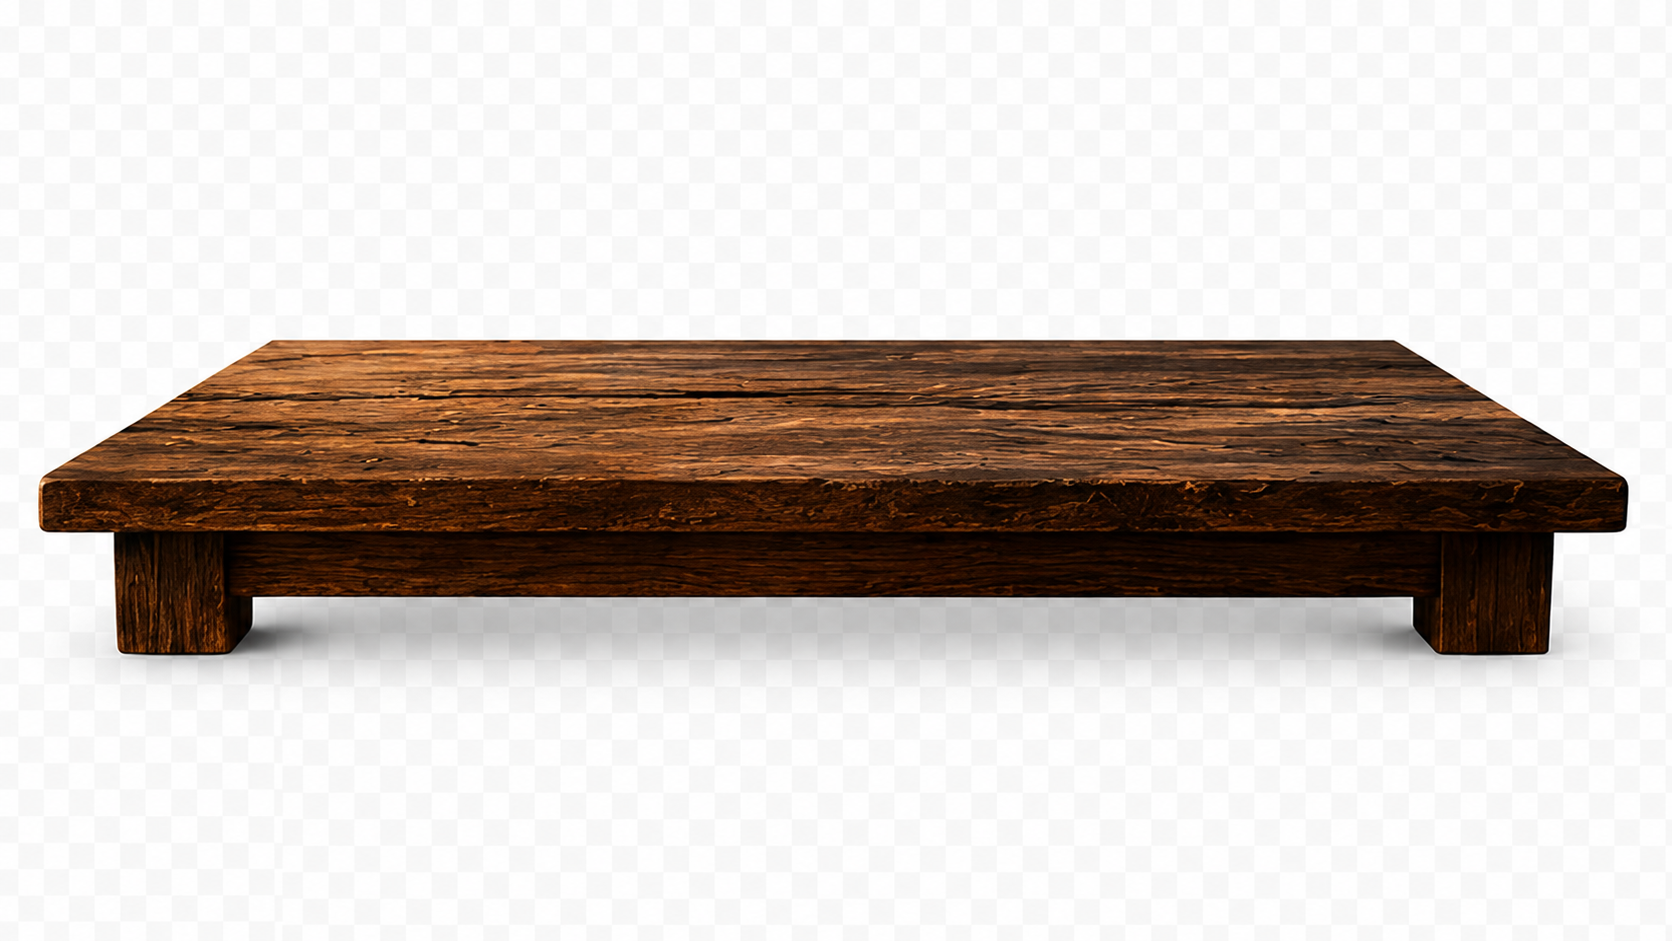
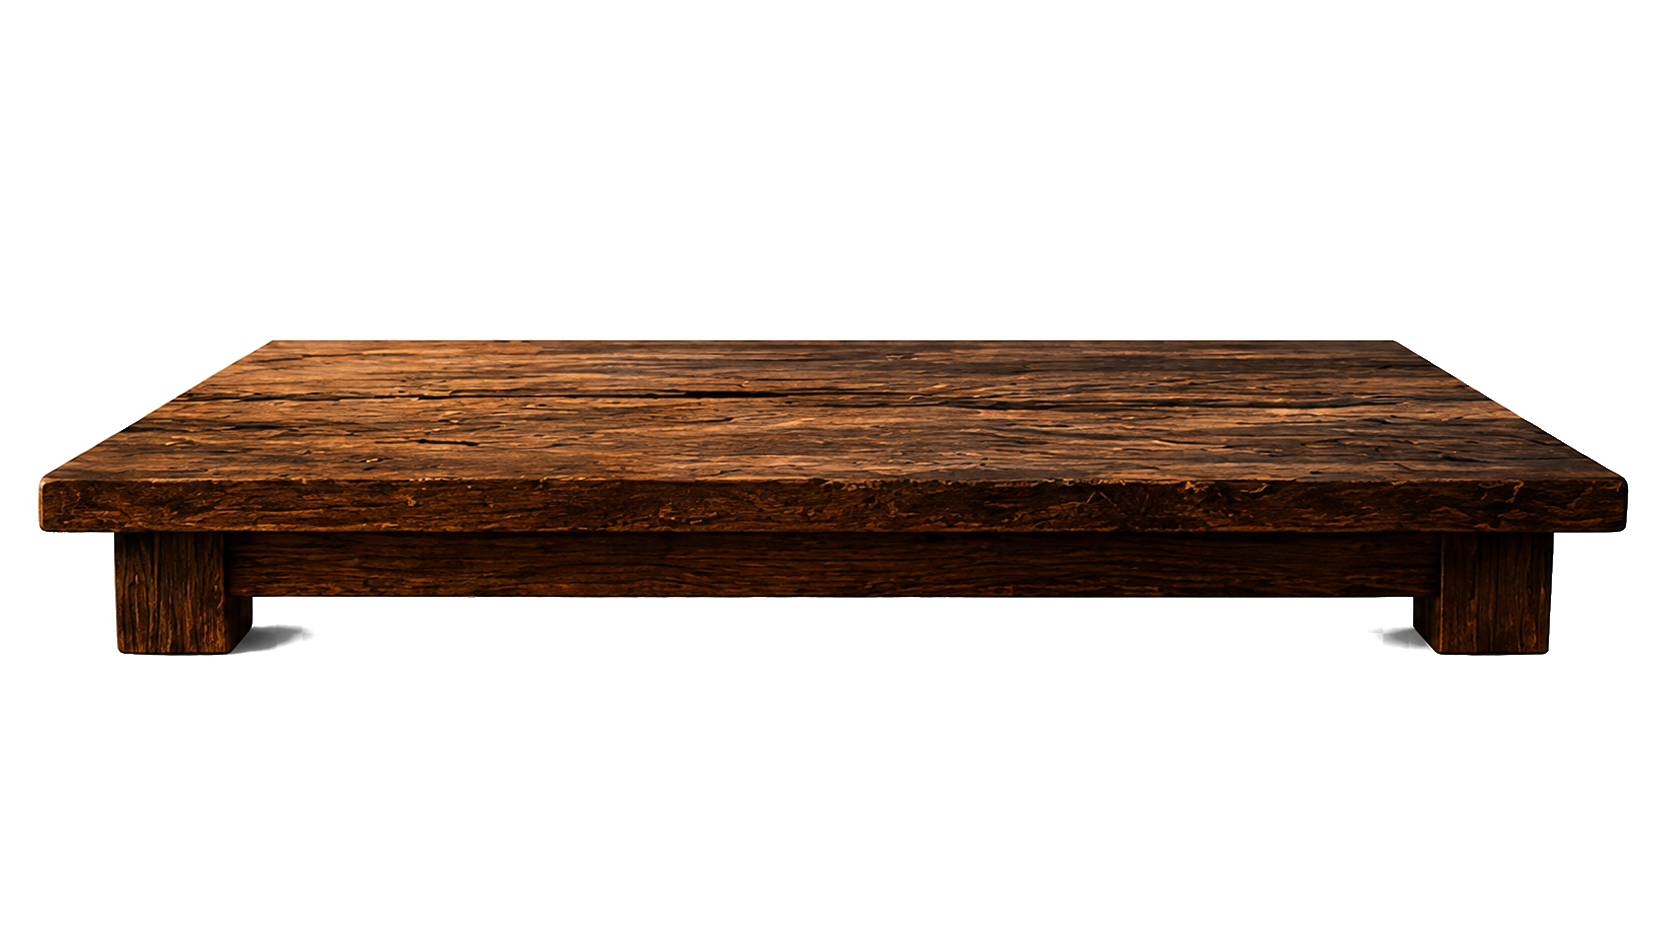
just do it

Changed region(s): [[0.0622, 0.6164, 0.9641, 0.7396]]

diff --git a/components/cinematic/cinematicData.ts b/components/cinematic/cinematicData.ts
@@ -29,7 +29,7 @@ export const wineScene: CinematicSceneDef = {
     {
       layerId: "background",
       src: WINE_ASSETS.background,
-      alt: "Cordillera de los Andes nevada en la hora dorada sobre Mendoza",
+      alt: "Cordillera de los Andes nevada y viñedo de Mendoza en la hora dorada",
       zIndex: 0,
       kind: "background",
       className: "inset-0",
@@ -37,137 +37,142 @@ export const wineScene: CinematicSceneDef = {
       placeholder: {
         style: {
           background:
-            "linear-gradient(180deg, #f6c77a 0%, #e7a35a 26%, #b9805a 46%, #6f5a55 64%, #3a3b41 100%)",
+            "linear-gradient(180deg, #d9ab68 0%, #bd8851 24%, #98704f 44%, #5c5350 62%, #2c2e34 100%)",
         },
       },
     },
     {
       layerId: "warm-glow",
+      // Luz ambiente cálida detrás de la botella. Sutil, sin halo marcado.
       src: WINE_ASSETS.warmGlow,
       alt: "",
-      zIndex: 5,
+      zIndex: 2,
       kind: "effect",
       decorative: true,
+      imageClassName: "opacity-50 mix-blend-screen",
       className:
-        "left-1/2 bottom-[12%] h-[52vh] w-[70vw] -translate-x-1/2 md:left-[34%] md:w-[44vw]",
+        "left-[45%] bottom-[30%] h-[40vh] w-[80vw] -translate-x-1/2 md:h-[50vh] md:w-[46vw]",
       placeholder: {
         style: {
           background:
-            "radial-gradient(50% 50% at 50% 50%, rgba(255,201,120,0.32) 0%, rgba(255,201,120,0) 65%)",
+            "radial-gradient(60% 60% at 50% 50%, rgba(255,200,130,0.12) 0%, rgba(255,200,130,0) 70%)",
           mixBlendMode: "screen",
         },
       },
     },
     {
       layerId: "table",
+      // Mesa dominante a todo el ancho; las patas se salen por abajo.
       src: WINE_ASSETS.table,
       alt: "Mesa premium de nogal oscuro",
       zIndex: 10,
       kind: "foreground",
-      className: "inset-x-0 bottom-0 h-[38%] md:h-[42%]",
+      className: "inset-x-0 bottom-[-8%] h-[80vw] md:bottom-[-16%] md:h-[58vw]",
       placeholder: {
         style: {
           background:
-            "linear-gradient(180deg, #2a1a12 0%, #1c120c 60%, #120b07 100%)",
+            "linear-gradient(180deg, #3a2418 0%, #271810 42%, #160d08 100%)",
         },
       },
     },
     {
       layerId: "contact-shadow",
+      // Sombra de contacto bajo botella/copa para anclarlas a la mesa.
       src: WINE_ASSETS.contactShadow,
       alt: "",
-      zIndex: 15,
+      zIndex: 14,
       kind: "effect",
       decorative: true,
-      className: "inset-x-[12%] bottom-[33%] h-[9%] md:inset-x-[20%]",
+      imageClassName: "opacity-60 mix-blend-multiply",
+      className:
+        "left-[45%] bottom-[24%] h-[8vh] w-[70vw] -translate-x-1/2 md:w-[42vw] md:h-[9vh]",
       placeholder: {
         style: {
           background:
-            "radial-gradient(60% 100% at 50% 100%, rgba(0,0,0,0.45) 0%, rgba(0,0,0,0) 70%)",
+            "radial-gradient(60% 100% at 50% 100%, rgba(0,0,0,0.5) 0%, rgba(0,0,0,0) 70%)",
         },
       },
     },
     {
       layerId: "cheese-board",
+      // Tabla de quesos a la izquierda, sobre la superficie.
       src: WINE_ASSETS.cheeseBoard,
       alt: "Tabla de quesos regionales",
-      zIndex: 20,
+      zIndex: 18,
       kind: "object",
-      className: "hidden md:block left-[8%] bottom-[15%] h-[15vh] w-[16vw]",
+      className:
+        "hidden md:block left-[20%] bottom-[22%] h-[34vh] w-[34vw] -translate-x-1/2",
       placeholder: { label: "Tabla de quesos" },
     },
     {
       layerId: "grapes",
+      // Uvas conectando la tabla de quesos con la base de la botella.
       src: WINE_ASSETS.grapes,
       alt: "Racimo de uvas",
-      zIndex: 21,
+      zIndex: 19,
       kind: "object",
-      className: "hidden md:block left-[21%] bottom-[13%] h-[10vh] w-[9vw]",
+      className:
+        "hidden md:block left-[31%] bottom-[22%] h-[22vh] w-[20vw] -translate-x-1/2",
       placeholder: { label: "Uvas" },
     },
     {
       layerId: "dish-b",
+      // Segundo plato detrás del plato A (asset pendiente → invisible).
       src: WINE_ASSETS.dishB,
       alt: "Plato gastronómico",
-      zIndex: 22,
+      zIndex: 20,
       kind: "object",
-      className: "hidden lg:block right-[22%] bottom-[12%] h-[11vh] w-[13vw]",
+      className:
+        "hidden lg:block left-[68%] bottom-[24%] h-[22vh] w-[22vw] -translate-x-1/2",
       placeholder: { label: "Plato B" },
     },
     {
       layerId: "dish-a",
+      // Plato gourmet principal a la derecha, sobre la superficie.
       src: WINE_ASSETS.dishA,
       alt: "Plato gastronómico",
-      zIndex: 23,
+      zIndex: 22,
       kind: "object",
-      className: "hidden md:block right-[8%] bottom-[15%] h-[13vh] w-[15vw]",
+      className:
+        "hidden md:block left-[80%] bottom-[22%] h-[32vh] w-[32vw] -translate-x-1/2",
       placeholder: { label: "Plato A" },
     },
     {
       layerId: "napkin-knife",
+      // Servilleta + cuchillo en primer plano, delante del plato.
       src: WINE_ASSETS.napkinKnife,
       alt: "Servilleta y cuchillo",
-      zIndex: 24,
+      zIndex: 26,
       kind: "object",
-      className: "hidden lg:block right-[33%] bottom-[11%] h-[8vh] w-[11vw]",
+      className:
+        "hidden md:block left-[70%] bottom-[14%] h-[22vh] w-[30vw] -translate-x-1/2",
       placeholder: { label: "Servilleta + cuchillo" },
     },
     {
+      layerId: "glass",
+      // Copa emparejada con la botella, ligeramente a su derecha.
+      src: WINE_ASSETS.glass,
+      alt: "Copa de vino tinto",
+      zIndex: 28,
+      kind: "object",
+      className:
+        "hidden md:block left-[60%] bottom-[25%] h-[42vh] w-[17vw] -translate-x-1/2",
+      placeholder: { label: "Copa de vino" },
+    },
+    {
       layerId: "bottle",
+      // Punto focal principal: botella Edmar, apoyada sobre la mesa.
       src: WINE_ASSETS.bottle,
       alt: "Botella de vino Edmar",
       zIndex: 30,
       kind: "object",
       className:
-        "left-1/2 bottom-[19%] h-[36vh] w-[52vw] -translate-x-1/2 md:left-[34%] md:bottom-[17%] md:h-[44vh] md:w-[18vw]",
+        "left-1/2 bottom-[24%] h-[42vh] w-[70vw] -translate-x-1/2 md:left-[43%] md:bottom-[26%] md:h-[60vh] md:w-[28vw]",
       placeholder: { label: "Botella Edmar" },
     },
-    {
-      layerId: "glass",
-      src: WINE_ASSETS.glass,
-      alt: "Copa de vino tinto",
-      zIndex: 31,
-      kind: "object",
-      className:
-        "hidden md:block left-[50%] bottom-[18%] h-[31vh] w-[11vw] -translate-x-1/2",
-      placeholder: { label: "Copa de vino" },
-    },
-    {
-      layerId: "particles",
-      src: WINE_ASSETS.particles,
-      alt: "",
-      zIndex: 40,
-      kind: "overlay",
-      decorative: true,
-      className: "inset-0",
-      placeholder: {
-        style: {
-          backgroundImage:
-            "radial-gradient(1.5px 1.5px at 20% 30%, rgba(255,240,210,0.5) 50%, transparent 51%), radial-gradient(1.5px 1.5px at 70% 50%, rgba(255,240,210,0.35) 50%, transparent 51%), radial-gradient(1.5px 1.5px at 45% 70%, rgba(255,240,210,0.3) 50%, transparent 51%)",
-          mixBlendMode: "screen",
-        },
-      },
-    },
+    // NOTA: la capa "particles" se reactivará cuando exista un PNG transparente
+    // real en effects/wine-atmospheric-particles-01.png (zIndex 40, inset-0,
+    // imageClassName "opacity-50 mix-blend-screen").
   ],
 };
 

diff --git a/components/cinematic/SceneLayer.tsx b/components/cinematic/SceneLayer.tsx
@@ -30,7 +30,6 @@ export default function SceneLayer({ sceneId, layer }: SceneLayerProps) {
   const [failed, setFailed] = useState(false);
   const { className, zIndex, kind, decorative, priority, placeholder } = layer;
   const showFallback = failed || !layer.src;
-  const isObject = kind === "object";
 
   return (
     <div
@@ -41,22 +40,15 @@ export default function SceneLayer({ sceneId, layer }: SceneLayerProps) {
       aria-hidden={decorative || showFallback ? true : undefined}
     >
       {showFallback ? (
-        <div
-          className={[
-            "flex h-full w-full items-center justify-center overflow-hidden",
-            isObject
-              ? "rounded-2xl border border-white/15 bg-white/[0.06] backdrop-blur-[2px]"
-              : "",
-            placeholder?.className ?? "",
-          ].join(" ")}
-          style={placeholder?.style}
-        >
-          {placeholder?.label ? (
-            <span className="select-none px-2 text-center text-[10px] font-medium uppercase tracking-[0.18em] text-white/55 sm:text-xs">
-              {placeholder.label}
-            </span>
-          ) : null}
-        </div>
+        // Solo dibujamos un fallback visible si la capa define un estilo
+        // (fondo/efecto). Los objetos que falten quedan invisibles para no
+        // romper la composición fotográfica.
+        placeholder?.style ? (
+          <div
+            className={`h-full w-full overflow-hidden ${placeholder.className ?? ""}`}
+            style={placeholder.style}
+          />
+        ) : null
       ) : (
         <Image
           src={layer.src}
@@ -64,7 +56,7 @@ export default function SceneLayer({ sceneId, layer }: SceneLayerProps) {
           fill
           sizes="100vw"
           priority={priority}
-          className={OBJECT_FIT_BY_KIND[kind]}
+          className={`${OBJECT_FIT_BY_KIND[kind]} ${layer.imageClassName ?? ""}`}
           draggable={false}
           onError={() => setFailed(true)}
         />

diff --git a/components/cinematic/Scene01WineTours.tsx b/components/cinematic/Scene01WineTours.tsx
@@ -23,36 +23,37 @@ export default function Scene01WineTours({ onExplore }: Scene01WineToursProps) {
         <SceneLayer key={layer.layerId} sceneId="wine" layer={layer} />
       ))}
 
-      {/* Degradado cálido inferior para profundidad y legibilidad del CTA */}
+      {/* Vignette atmosférica de altura completa: oscurece cielo y base,
+          deja limpio el centro (objetos) y da legibilidad/grounding al CTA. */}
       <div
         data-scene="wine"
-        data-layer="readability-gradient"
-        className="pointer-events-none absolute inset-x-0 bottom-0 h-2/3"
+        data-layer="atmosphere"
+        className="pointer-events-none absolute inset-0"
         style={{
           zIndex: 45,
           background:
-            "linear-gradient(180deg, rgba(8,12,11,0) 0%, rgba(8,12,11,0.28) 50%, rgba(8,12,11,0.72) 100%)",
+            "linear-gradient(180deg, rgba(8,12,11,0.40) 0%, rgba(8,12,11,0) 26%, rgba(8,12,11,0) 46%, rgba(8,12,11,0.45) 72%, rgba(8,12,11,0.9) 100%)",
         }}
         aria-hidden
       />
 
-      {/* CTA — integrado en la composición, centro-inferior */}
+      {/* CTA — bloque compacto: título y botón próximos, integrados en la foto */}
       <div
         data-scene="wine"
         data-layer="cta"
-        className="absolute inset-x-0 bottom-0 flex flex-col items-center px-6 pb-[8vh] text-center"
+        className="absolute inset-x-0 bottom-0 flex flex-col items-center px-6 pb-[6vh] text-center"
         style={{ zIndex: 50 }}
       >
-        <p className="text-xs font-medium uppercase tracking-[0.32em] text-accent-gold/90">
+        <p className="text-[11px] font-medium uppercase tracking-[0.34em] text-accent-gold/90">
           Mendoza
         </p>
-        <h1 className="mt-4 max-w-3xl text-balance text-4xl font-semibold tracking-tight text-white drop-shadow-sm sm:text-5xl lg:text-6xl">
+        <h1 className="mt-2.5 max-w-3xl text-balance text-4xl font-semibold tracking-tight text-white drop-shadow-[0_2px_18px_rgba(0,0,0,0.55)] sm:text-5xl lg:text-6xl">
           {wineScene.cta.title}
         </h1>
         <button
           type="button"
           onClick={onExplore}
-          className="mt-8 inline-flex items-center justify-center gap-2 rounded-full bg-accent-gold px-7 py-3.5 text-sm font-semibold text-dark-base shadow-[0_10px_40px_rgba(200,155,60,0.35)] transition-all duration-300 ease-out hover:scale-[1.02] hover:bg-accent-gold/90 focus-visible:outline focus-visible:outline-2 focus-visible:outline-offset-2 focus-visible:outline-accent-gold"
+          className="mt-5 inline-flex items-center justify-center gap-2 rounded-full bg-accent-gold px-7 py-3.5 text-sm font-semibold text-dark-base shadow-[0_10px_40px_rgba(200,155,60,0.35)] transition-all duration-300 ease-out hover:scale-[1.02] hover:bg-accent-gold/90 focus-visible:outline focus-visible:outline-2 focus-visible:outline-offset-2 focus-visible:outline-accent-gold"
         >
           {wineScene.cta.button}
           <span aria-hidden className="text-base leading-none">

diff --git a/components/cinematic/cinematicAssets.ts b/components/cinematic/cinematicAssets.ts
@@ -14,7 +14,7 @@ const wine = `${ASSETS_BASE}/wine-tours`;
 
 /** Escena 01 — Wine Tours & Bodegas. */
 export const WINE_ASSETS = {
-  background: `${wine}/backgrounds/wine-background-01.webp`,
+  background: `${wine}/backgrounds/wine-background-01.png`,
   table: `${wine}/foreground/wine-table-foreground-01.png`,
   bottle: `${wine}/props/wine-bottle-edmar-01.png`,
   glass: `${wine}/props/wine-glass-red-01.png`,

diff --git a/components/cinematic/types.ts b/components/cinematic/types.ts
@@ -29,6 +29,8 @@ export type SceneLayerDef = {
   kind: SceneLayerKind;
   /** Clases de posicionamiento/tamaño del wrapper (data structure de posición). */
   className: string;
+  /** Clases aplicadas a la <img> real (blend modes, opacidad, object-position). */
+  imageClassName?: string;
   /** Capa decorativa → aria-hidden. */
   decorative?: boolean;
   /** Marca el fondo crítico para `priority` en next/image. */

diff --git a/public/assets/README.md b/public/assets/README.md
@@ -70,10 +70,10 @@ Sube los archivos finales con **estos nombres exactos**:
 
 ```txt
 public/assets/scenes/wine-tours/backgrounds/
-└── wine-background-01.webp
+└── wine-background-01.png        # (también admite .webp; actualiza cinematicAssets si cambias la extensión)
 
 public/assets/scenes/wine-tours/foreground/
-└── wine-table-foreground-01.png
+└── wine-table-foreground-01.png  # procesada con scripts/cinematic-prepare.mjs (venía sobre blanco)
 
 public/assets/scenes/wine-tours/props/
 ├── wine-bottle-edmar-01.png
@@ -96,8 +96,21 @@ public/assets/scenes/wine-tours/ui/        # imágenes cuadradas de las cards de
 └── wine-card-half-day-01.jpg
 ```
 
-Mientras un archivo no exista, **la app no se rompe**: cada capa muestra un fallback visual
-(degradado/etiqueta) hasta que subas el asset real.
+Mientras un archivo no exista, **la app no se rompe**: las capas de fondo/efecto muestran un
+degradado de fallback y los **objetos que falten quedan invisibles** (no se dibuja ninguna caja),
+para no romper la composición fotográfica.
+
+### Estado actual (Escena 01)
+
+- ✅ Cargados y en uso: `wine-background-01.png`, `wine-table-foreground-01.png` (procesada),
+  `wine-bottle-edmar-01.png`, `wine-glass-red-01.png`, `wine-cheese-board-01.png`,
+  `wine-dish-a-01.png`, `wine-napkin-knife-01.png`, `wine-warm-glow-01.png`,
+  `wine-contact-shadow-01.png`.
+- ⏳ Pendientes (la capa existe pero queda invisible hasta subir el PNG transparente):
+  - `wine-grapes-01.png` — el `wine-grapes-01.jpg` subido es un placeholder (trae el tablero de
+    transparencia y el texto "ASSET 7" quemados); reemplázalo por un recorte PNG real.
+  - `wine-dish-b-01.png` — solo se subió el plato A.
+  - `wine-atmospheric-particles-01.png` — el archivo subido también era un placeholder; eliminado.
 
 ---
 